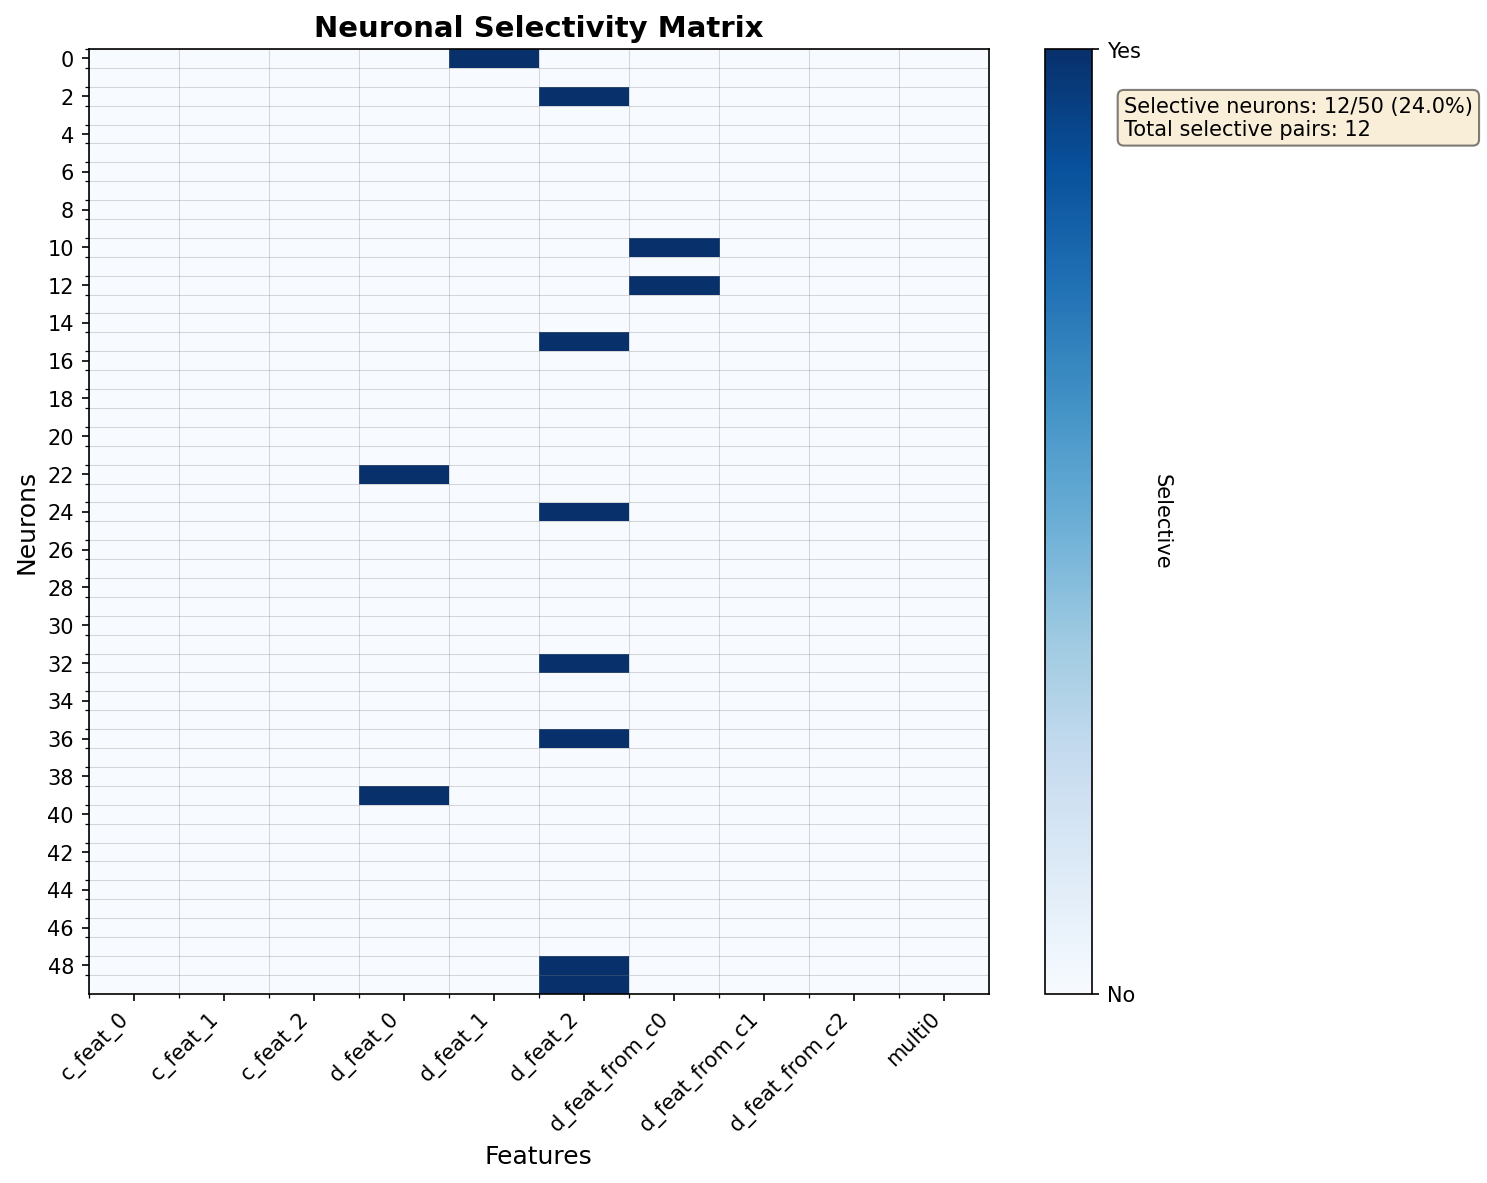
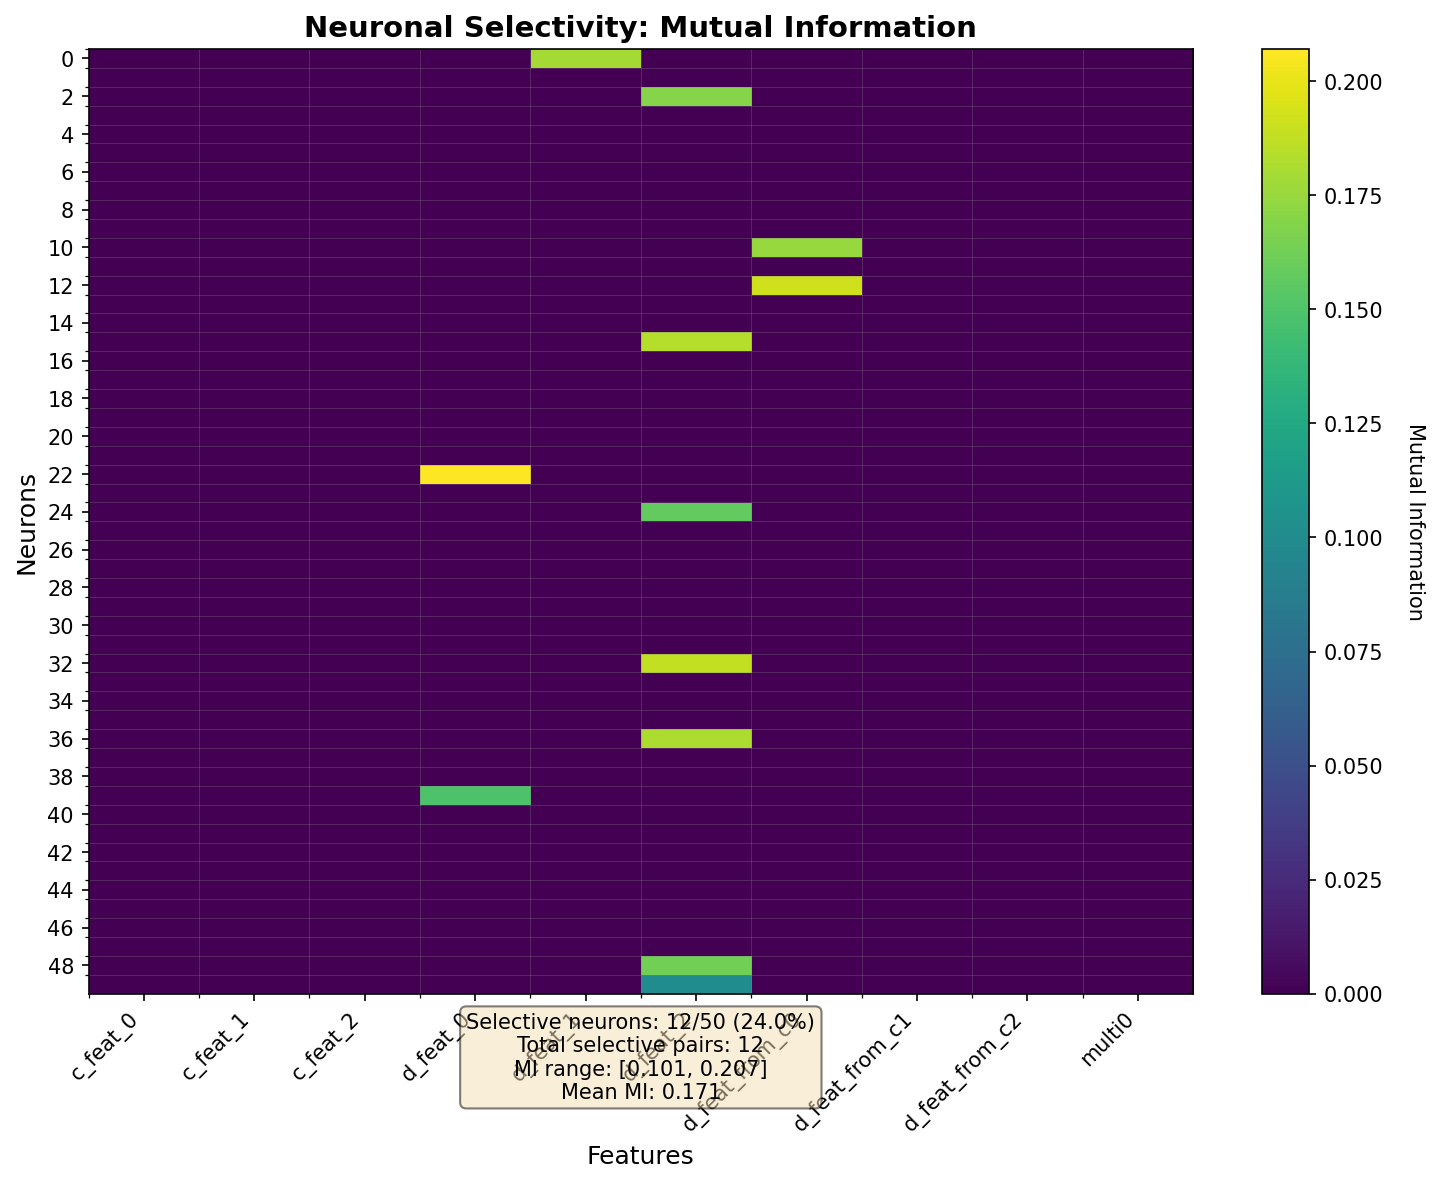
fix: resolve plot_selectivity_heatmap visualization issues
- Fix MI values display: use 'me' key instead of 'pre_rval' for actual metric values
- Fix text box overlap: move summary text below plot with proper positioning
- Update get_neuron_feature_pair_stats calls to include mode='calcium' parameter
- Update tests to match new function signatures and add 'me' key to mock data

diff --git a/src/driada/intense/visual.py b/src/driada/intense/visual.py
@@ -507,7 +507,7 @@ def plot_selectivity_heatmap(exp, significant_neurons,
             # Check if this neuron-feature pair is significant
             if cell_id in significant_neurons and feat_name in significant_neurons[cell_id]:
                 # Get the statistics for this pair
-                pair_stats = exp.get_neuron_feature_pair_stats(cell_id, feat_name)
+                pair_stats = exp.get_neuron_feature_pair_stats(cell_id, feat_name, mode='calcium')
                 
                 # Check significance threshold if provided
                 if significance_threshold is not None:
@@ -516,13 +516,8 @@ def plot_selectivity_heatmap(exp, significant_neurons,
                     if pval is None or pval > significance_threshold:
                         continue
                 
-                # Get the metric value
-                if metric == 'mi':
-                    value = pair_stats['pre_rval']  # MI value
-                elif metric == 'corr':
-                    value = pair_stats.get('corr', pair_stats['pre_rval'])  # Use correlation if available
-                else:
-                    value = pair_stats['pre_rval']  # Default to MI
+                # Get the metric value - 'me' contains the metric value for whichever metric was used
+                value = pair_stats.get('me', 0)
                 
                 selectivity_matrix[neuron_idx, feat_idx] = value
                 all_metric_values.append(value)
@@ -594,8 +589,9 @@ def plot_selectivity_heatmap(exp, significant_neurons,
         ])
     
     summary_text = '\n'.join(summary_lines)
-    ax.text(1.02, 0.95, summary_text, transform=ax.transAxes, 
-            fontsize=10, verticalalignment='top', 
+    # Position text below the plot to avoid colorbar overlap
+    fig.text(0.5, -0.15, summary_text, transform=ax.transAxes, 
+            fontsize=10, verticalalignment='top', horizontalalignment='center',
             bbox=dict(boxstyle='round', facecolor='wheat', alpha=0.5))
     
     # Add grid for better readability

diff --git a/tests/test_visual.py b/tests/test_visual.py
@@ -429,11 +429,11 @@ def test_plot_selectivity_heatmap():
                 'pre_rval': mi_value,
                 'pval': pval,
                 'shift_used': 0.0,
-                'corr': mi_value * 0.8  # Mock correlation
+                'me': mi_value  # 'me' stores the metric value
             }
     
     # Mock get_neuron_feature_pair_stats method
-    def get_stats(cell_id, feat_name):
+    def get_stats(cell_id, feat_name, mode='calcium'):
         return exp.stats_table[feat_name][cell_id]
     exp.get_neuron_feature_pair_stats = get_stats
     
@@ -526,11 +526,12 @@ def test_plot_selectivity_heatmap_edge_cases():
             exp.stats_table[feat_name][neuron_id] = {
                 'pre_rval': 0.3 if neuron_id == 0 else 0.1,
                 'pval': None if neuron_id == 1 else 0.001,  # Test None pval
-                'shift_used': 0.0
+                'shift_used': 0.0,
+                'me': 0.3 if neuron_id == 0 else 0.1  # Add 'me' key
             }
     
     # Mock get_neuron_feature_pair_stats method
-    def get_stats(cell_id, feat_name):
+    def get_stats(cell_id, feat_name, mode='calcium'):
         return exp.stats_table[feat_name][cell_id]
     exp.get_neuron_feature_pair_stats = get_stats
     
